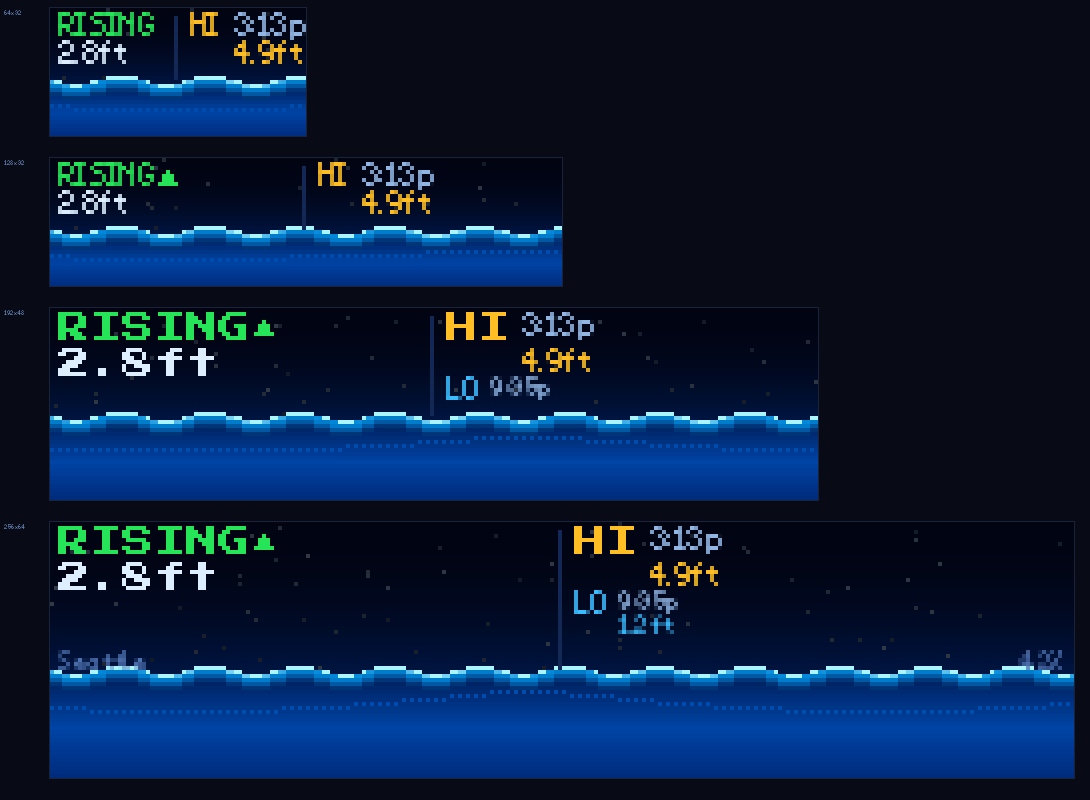
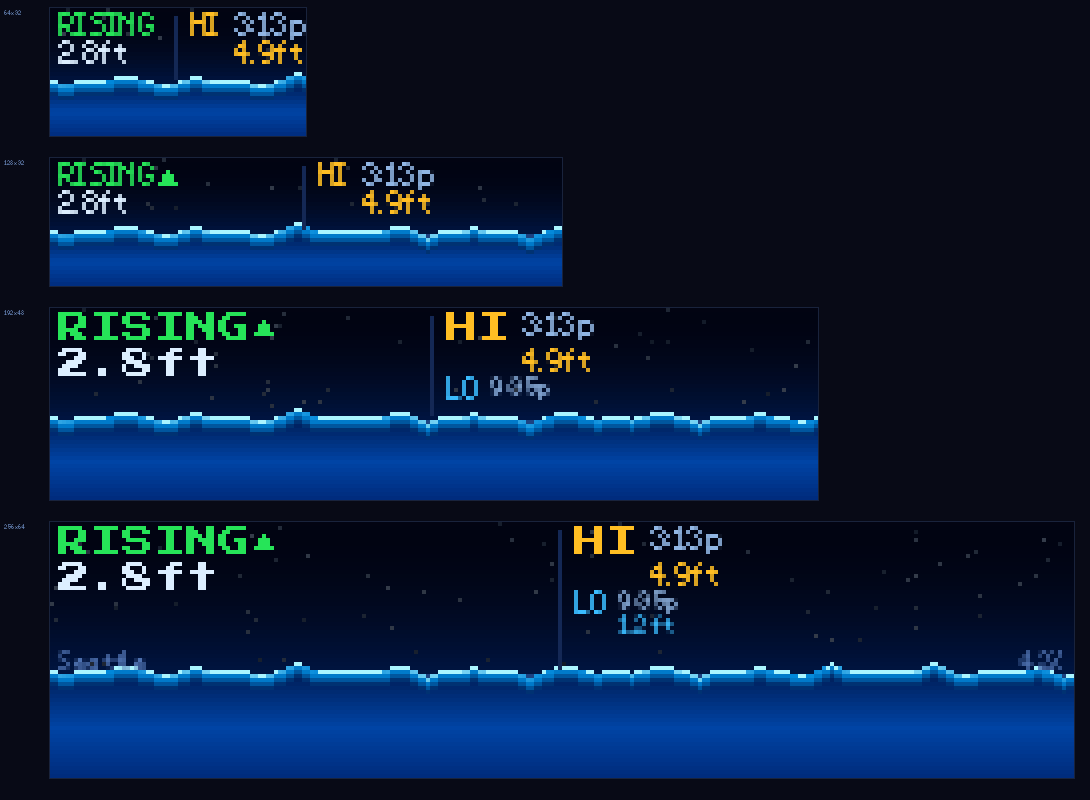
feat(tide-display): composite multi-frequency wave, horizon glow, remove shimmer artifacts
Wave improvements:
- _wave_y(): composite of 3 sine waves (primary swell 1.3px + secondary chop
  0.7px + fine ripple 0.35px) gives a natural irregular ocean surface instead
  of a mechanical single-frequency sine pattern
- Removed water shimmer entirely — the scan-line dots were visually identical
  to compression artifacts rather than natural water texture
- Horizon glow: a single bright-indigo pixel line at surf_y defines the sky/water
  boundary cleanly without the harsh contrast jump
- Wave body uses pre-computed composite positions for consistency between body,
  crest, and sparkle layers

diff --git a/plugins/tide-display/manager.py b/plugins/tide-display/manager.py
@@ -298,9 +298,17 @@ class TidePlugin(BasePlugin):
             b  = rng.randint(18, 50)
             draw.point((sx, sy), fill=(b, b+8, b+22))
 
+    def _wave_y(self, px: int) -> float:
+        """Composite multi-frequency wave giving a natural, non-mechanical surface."""
+        p = self.wave_phase
+        y1 = math.sin((px + p)         * 0.28) * 1.3   # primary swell
+        y2 = math.sin((px + p * 1.35)  * 0.47) * 0.7   # secondary chop
+        y3 = math.sin((px + p * 0.72)  * 0.71) * 0.35  # fine ripple
+        return y1 + y2 + y3  # max ≈ ±2.35px, stays within 3px amplitude
+
     def _full_wave(self, canvas, draw, dw, dh, fill_ratio, amp):
         """
-        Full-display animated water gradient with a single clean wave surface.
+        Full-display animated water gradient with composite-sine wave surface.
 
         Sky (C_BG → C_SKY_HORIZON) and water (C_WATER_TOP → C_WATER_DEEP) share
         the same colour at the horizon so there is no luminance jump.
@@ -328,37 +336,35 @@ class TidePlugin(BasePlugin):
                 color = _lerp(C_WATER_MID, C_WATER_DEEP, (t - 0.5) * 2)
             draw.line([(0,py),(dw-1,py)], fill=color)
 
-        # Subtle water shimmer — faint lighter-blue ripple in water body
-        shimmer_c = _lerp(C_WATER_MID, (0, 100, 200), 0.25)
-        for px in range(0, dw, 2):
-            ry = surf_y + 4 + int((dh-surf_y-4) * 0.25
-                                  * abs(math.sin((px*0.12 + self.wave_phase*0.3)*0.15)))
-            if surf_y < ry < dh:
-                draw.point((px, ry), fill=shimmer_c)
+        # Horizon glow: 1px bright line at surface — elegant sky/water boundary
+        horizon_c = _lerp(_lerp(C_SKY_HORIZON, C_WATER_TOP, 0.5), (80, 140, 220), 0.35)
+        draw.line([(0, surf_y), (dw-1, surf_y)], fill=horizon_c)
 
-        # Wave body: 3px thick with brightness fade top→bottom
-        AMP = 2
+        # Pre-compute composite wave positions for the full width
+        wave_ys = [surf_y + int(self._wave_y(px)) for px in range(dw)]
+
+        # Wave body: 3px thick, brightness fades with depth
         for px in range(dw):
-            base_wy = surf_y + int(AMP * math.sin((px + self.wave_phase) * 0.28))
+            base_wy = wave_ys[px]
             for dy in range(3):
                 wy = base_wy + dy
                 if 0 <= wy < dh:
-                    blend = 1.0 - dy * 0.38
-                    draw.point((px, wy), fill=_lerp(C_WATER_TOP, C_WAVE1, blend * 0.9))
+                    blend = 1.0 - dy * 0.40
+                    draw.point((px, wy), fill=_lerp(C_WATER_TOP, C_WAVE1, blend * 0.88))
 
-        # Crest line — brightness modulated along the wave for organic feel
+        # Crest line with modulated brightness for organic feel
         for px in range(dw):
-            wy = surf_y + int(AMP * math.sin((px + self.wave_phase) * 0.28)) - 1
+            wy = wave_ys[px] - 1
             if 0 <= wy < dh:
                 bt = (math.sin((px + self.wave_phase * 1.3) * 0.11) + 1) * 0.5
-                draw.point((px, wy), fill=_lerp(C_WAVE1, C_WAVE_CREST, bt * 0.7))
+                draw.point((px, wy), fill=_lerp(C_WAVE1, C_WAVE_CREST, bt * 0.72))
 
-        # Organic sparkles: only at true local crests (not regular spacing)
+        # Organic sparkles at true local crests of the composite wave
         for px in range(0, dw):
-            wy_p = surf_y + int(AMP * math.sin(((px-2) + self.wave_phase) * 0.28))
-            wy_c = surf_y + int(AMP * math.sin(((px  ) + self.wave_phase) * 0.28))
-            wy_n = surf_y + int(AMP * math.sin(((px+2) + self.wave_phase) * 0.28))
-            if wy_c <= wy_p and wy_c <= wy_n:  # local minimum y = crest
+            wy_p = wave_ys[max(0, px-2)]
+            wy_c = wave_ys[px]
+            wy_n = wave_ys[min(dw-1, px+2)]
+            if wy_c <= wy_p and wy_c <= wy_n:
                 wy = wy_c - 1
                 if 0 <= wy < dh:
                     draw.point((px, wy), fill=C_WAVE_CREST)
